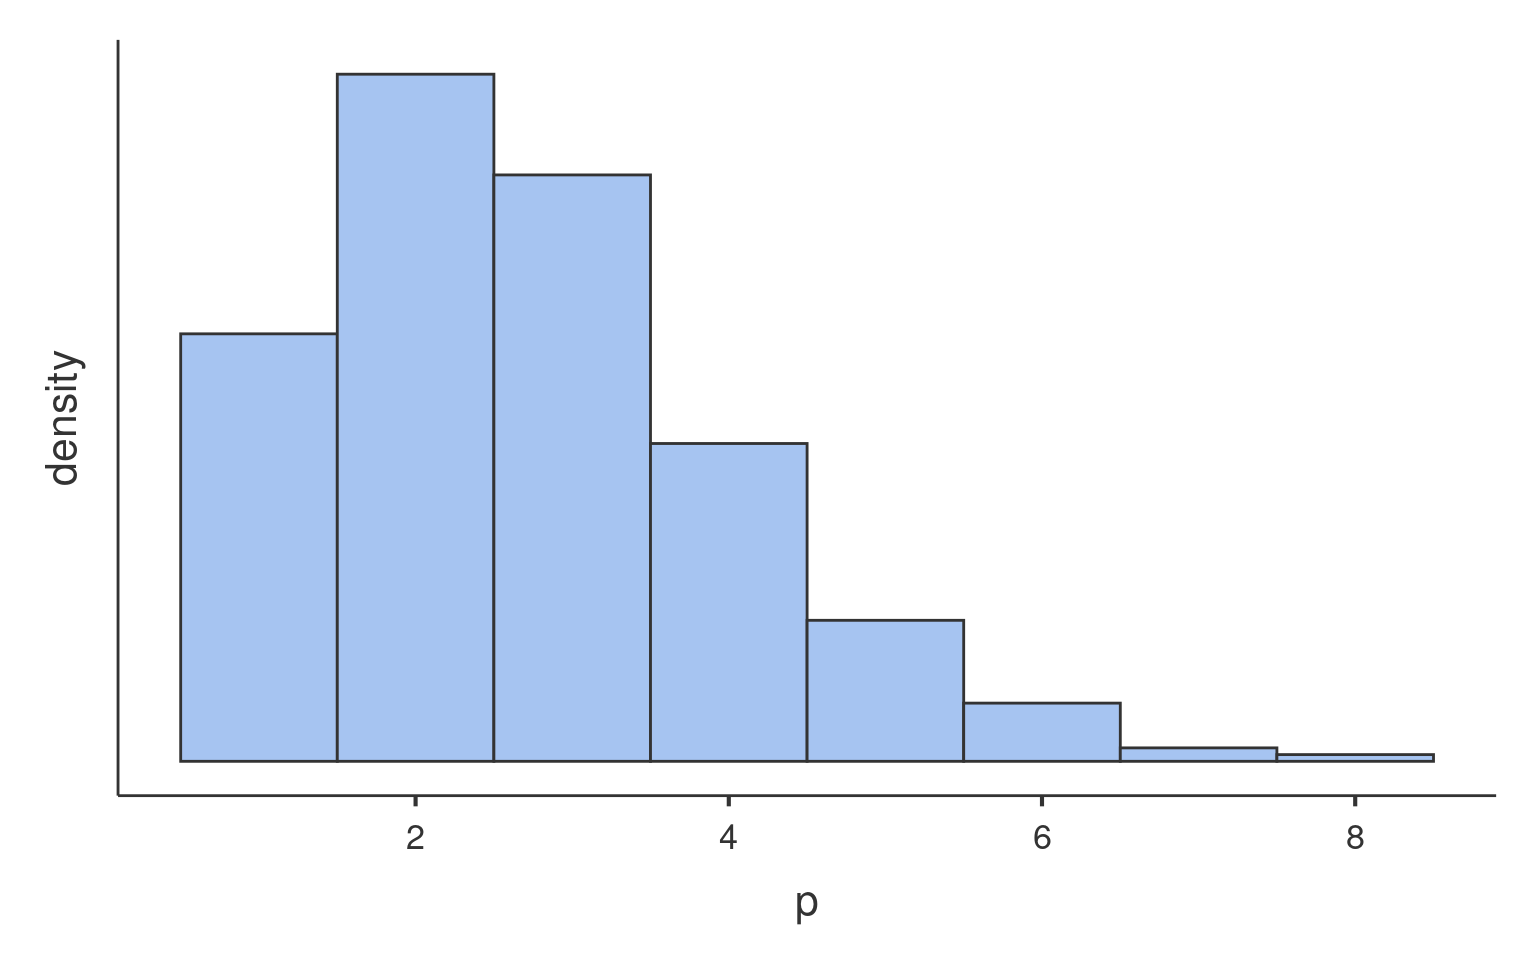
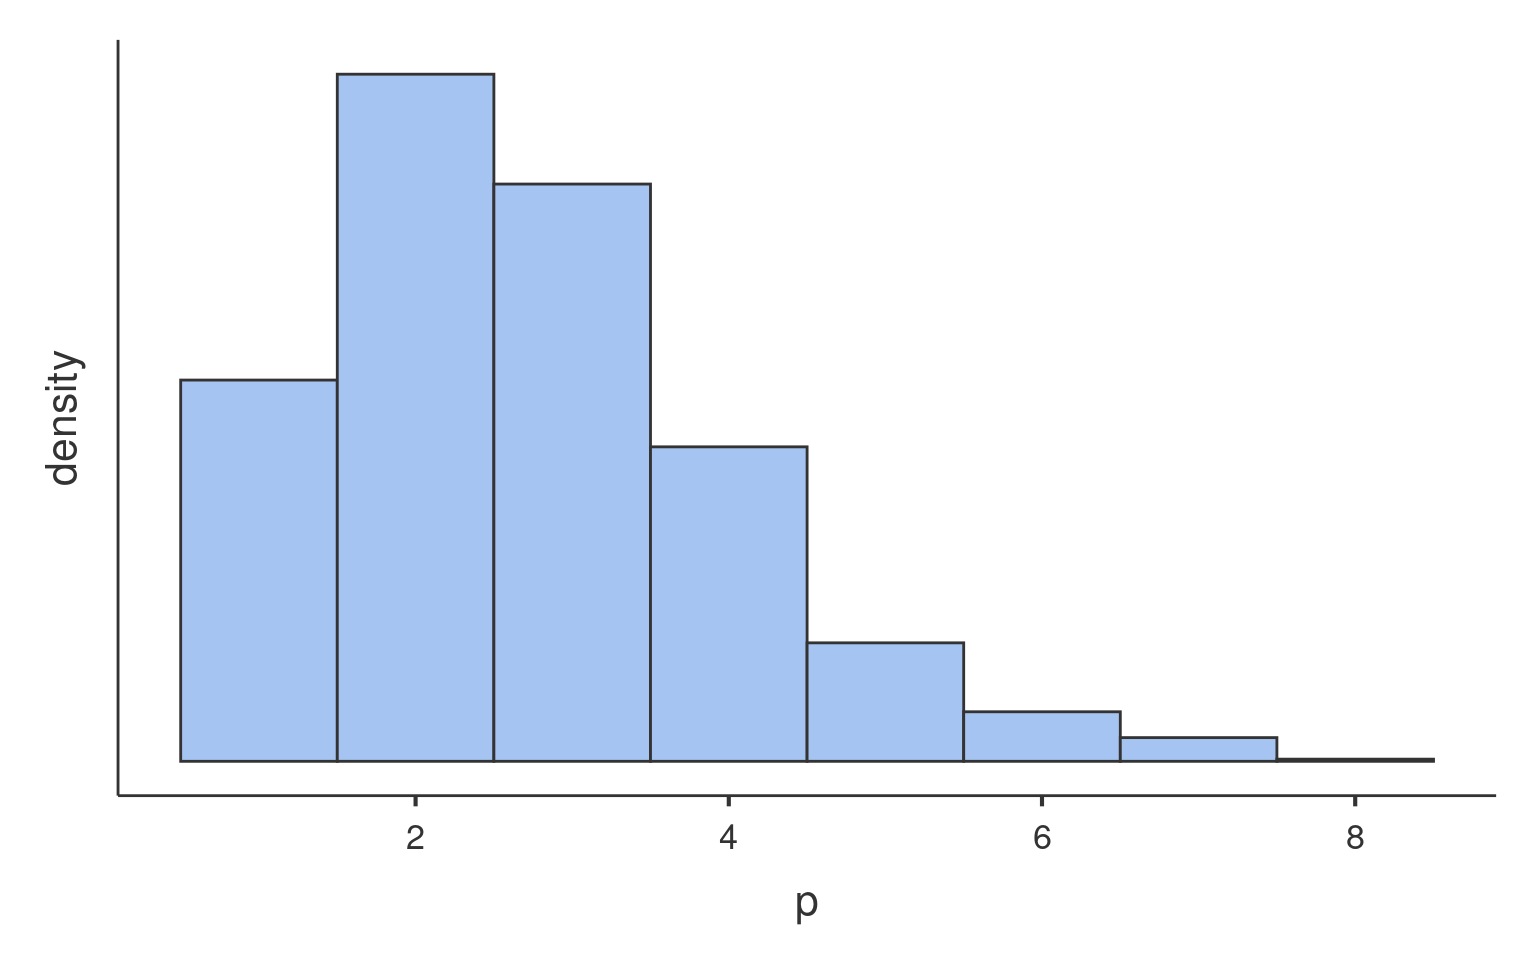
updates

diff --git a/docs/glmmixed_example2.html b/docs/glmmixed_example2.html
@@ -292,8 +292,8 @@ Generalized Linear Model with Poisson distribition may work. However, we
 can check wheather our distribution is in line with the features of the
 Poisson dist by checking its mean and variance. The Poisson distribution
 has variance equal to the mean, in fact the simulated distribution in
-the histogram has <span class="math inline">\(\bar{x}=1.696\)</span> and
-<span class="math inline">\(s^2=1.779\)</span>. The <code>art</code>
+the histogram has <span class="math inline">\(\bar{x}=1.701\)</span> and
+<span class="math inline">\(s^2=1.713\)</span>. The <code>art</code>
 variable distribution has <span
 class="math inline">\(\bar{x}=1.693\)</span> and <span
 class="math inline">\(s^2=3.71\)</span>, with a ratio variance/mean of

diff --git a/docs/index.html b/docs/index.html
@@ -5,6 +5,7 @@
     <meta http-equiv="Content-Type" content="text/html; charset=utf-8" />
     <meta name="generator" content="pandoc" />
 
+        <meta name="author" content="Marcello Gallucci" />
     
     
     <title>GAMLj</title>
@@ -232,7 +233,9 @@
       </ul>
     </div>
     <div id="postamble" data-toggle="wy-nav-shift" class="status">
-                </div>
+                  <p class="author"><span class="glyphicon glyphicon-user"></span> Marcello
+Gallucci</p>
+                      </div>
    </div>
      
 
